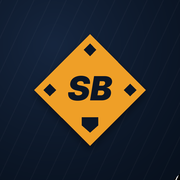
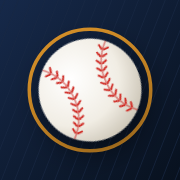
Логотип и иконки: бейсбольный мяч вместо ромба; мяч крутится при наведении
- icons/: новые иконка приложения, maskable, apple-touch-icon, favicon (?v=2 для сброса кэша)
- шапка, footer, приветствие и карточка игрока (canvas) — мяч
- анимация отключается при «уменьшить движение»

Claude-Session: https://claude.ai/code/session_013S2NdYeSo4xxmBAmjf2uvL

diff --git a/index.html b/index.html
@@ -7,22 +7,22 @@
 <meta name="description" content="Softball Baku — oyunçuların reytinqi və statistikası">
 <link rel="manifest" href="manifest.json">
 <meta name="theme-color" content="#08111e">
-<link rel="icon" type="image/png" sizes="32x32" href="icons/favicon-32.png">
-<link rel="apple-touch-icon" href="icons/apple-touch-icon.png">
+<link rel="icon" type="image/png" sizes="32x32" href="icons/favicon-32.png?v=2">
+<link rel="apple-touch-icon" href="icons/apple-touch-icon.png?v=2">
 <meta name="mobile-web-app-capable" content="yes">
 <meta name="apple-mobile-web-app-capable" content="yes">
 <meta name="apple-mobile-web-app-status-bar-style" content="black">
 <meta name="apple-mobile-web-app-title" content="Softball Baku">
 <link rel="preconnect" href="https://fonts.googleapis.com">
 <link rel="stylesheet" href="https://fonts.googleapis.com/css2?family=Inter:ital,opsz,wght@0,14..32,400..900;1,14..32,700..900&display=swap">
-<link rel="stylesheet" href="styles.css?v=202611071255">
-<link rel="stylesheet" href="features.css?v=202611071255">
-<link rel="stylesheet" href="club.css?v=202611071255">
-<link rel="stylesheet" href="weather.css?v=202611071255">
+<link rel="stylesheet" href="styles.css?v=202611071500">
+<link rel="stylesheet" href="features.css?v=202611071500">
+<link rel="stylesheet" href="club.css?v=202611071500">
+<link rel="stylesheet" href="weather.css?v=202611071500">
 </head>
 <body>
 <header class="top">
-  <a class="brand" href="#rating"><span class="brand-mark">◆</span><span class="brand-text">SOFTBALL <b>BAKU</b></span></a>
+  <a class="brand" href="#rating"><span class="brand-mark"><svg class="ball" viewBox="0 0 100 100" aria-hidden="true"><defs><radialGradient id="bh" cx="38%" cy="32%" r="75%"><stop offset="0" stop-color="#fff"/><stop offset=".62" stop-color="#f1ede4"/><stop offset="1" stop-color="#c9c2b3"/></radialGradient></defs><circle cx="50" cy="50" r="46" fill="url(#bh)"/><g fill="none" stroke-linecap="round"><path d="M19 16C39 34 39 66 19 84 M81 16C61 34 61 66 81 84" stroke="#c9302c" stroke-width="2.4" opacity=".55"/><path d="M19.3 22.2L23.3 22.3M25.8 16.9L25.1 20.8M22.9 26.9L26.8 27.5M30.1 22.5L28.9 26.3M25.8 31.9L29.5 33.1M33.5 28.6L31.7 32.1M27.9 37.2L31.4 38.9M36.0 35.0L33.8 38.3M29.2 42.7L32.5 44.9M37.5 41.6L34.9 44.6M29.8 48.4L32.8 51.0M38.2 48.4L35.2 51.0M29.6 54.1L32.3 57.1M38.0 55.2L34.6 57.4M28.7 59.7L30.9 63.0M36.8 61.9L33.2 63.7M27.0 65.2L28.8 68.8M34.7 68.5L31.0 69.7M24.6 70.4L25.8 74.2M31.8 74.8L27.8 75.4M21.4 75.3L22.0 79.2M27.8 80.7L23.9 80.8M74.2 16.9L74.9 20.8M80.7 22.2L76.7 22.3M69.9 22.5L71.1 26.3M77.1 26.9L73.2 27.5M66.5 28.6L68.3 32.1M74.2 31.9L70.5 33.1M64.0 35.0L66.2 38.3M72.1 37.2L68.6 38.9M62.5 41.6L65.1 44.6M70.8 42.7L67.5 44.9M61.8 48.4L64.8 51.0M70.2 48.4L67.2 51.0M62.0 55.2L65.4 57.4M70.4 54.1L67.7 57.1M63.2 61.9L66.8 63.7M71.3 59.7L69.1 63.0M65.3 68.5L69.0 69.7M73.0 65.2L71.2 68.8M68.2 74.8L72.2 75.4M75.4 70.4L74.2 74.2M72.2 80.7L76.1 80.8M78.6 75.3L78.0 79.2" stroke="#d2312b" stroke-width="3.6"/></g></svg></span><span class="brand-text">SOFTBALL <b>BAKU</b></span></a>
   <div class="right">
     <nav><a href="#rating" data-nav="home" data-t="rating">Reytinq</a><a href="#games" data-nav="games" data-t="games">Oyunlar</a><a href="#teams" data-nav="teams" data-t="navTeams">Komandalar</a><a href="#records" data-nav="records" data-t="navRecords">Rekordlar</a><a href="#rules" data-nav="rules" data-t="navRules">Qaydalar</a></nav>
     <div class="lang" role="group" aria-label="Language"><button data-lang="az">AZ</button><button data-lang="ru">RU</button><button data-lang="en">EN</button></div>
@@ -33,11 +33,11 @@
 <div id="demo-banner" class="demo" hidden>Демо-версия: игроки и цифры вымышленные</div>
 <main id="app"><div class="loading">…</div></main>
 <footer class="foot" id="foot">Softball Baku</footer>
-<script src="install.js?v=202611071255"></script>
-<script src="app.js?v=202611071255"></script>
-<script src="features.js?v=202611071255"></script>
-<script src="rules.js?v=202611071255"></script>
-<script src="club.js?v=202611071255"></script>
-<script src="weather.js?v=202611071255"></script>
+<script src="install.js?v=202611071500"></script>
+<script src="app.js?v=202611071500"></script>
+<script src="features.js?v=202611071500"></script>
+<script src="rules.js?v=202611071500"></script>
+<script src="club.js?v=202611071500"></script>
+<script src="weather.js?v=202611071500"></script>
 </body>
 </html>

diff --git a/app.js b/app.js
@@ -41,6 +41,11 @@ let LANG='az';
 try{ const s=localStorage.getItem('lang'); if(I18N[s]) LANG=s; }catch(e){}
 const T=k=>I18N[LANG][k];
 
+/* ---------- Логотип: бейсбольный мяч (крутится при наведении) ---------- */
+const BALL_SEAM='M19 16C39 34 39 66 19 84 M81 16C61 34 61 66 81 84', BALL_ST='M19.3 22.2L23.3 22.3M25.8 16.9L25.1 20.8M22.9 26.9L26.8 27.5M30.1 22.5L28.9 26.3M25.8 31.9L29.5 33.1M33.5 28.6L31.7 32.1M27.9 37.2L31.4 38.9M36.0 35.0L33.8 38.3M29.2 42.7L32.5 44.9M37.5 41.6L34.9 44.6M29.8 48.4L32.8 51.0M38.2 48.4L35.2 51.0M29.6 54.1L32.3 57.1M38.0 55.2L34.6 57.4M28.7 59.7L30.9 63.0M36.8 61.9L33.2 63.7M27.0 65.2L28.8 68.8M34.7 68.5L31.0 69.7M24.6 70.4L25.8 74.2M31.8 74.8L27.8 75.4M21.4 75.3L22.0 79.2M27.8 80.7L23.9 80.8M74.2 16.9L74.9 20.8M80.7 22.2L76.7 22.3M69.9 22.5L71.1 26.3M77.1 26.9L73.2 27.5M66.5 28.6L68.3 32.1M74.2 31.9L70.5 33.1M64.0 35.0L66.2 38.3M72.1 37.2L68.6 38.9M62.5 41.6L65.1 44.6M70.8 42.7L67.5 44.9M61.8 48.4L64.8 51.0M70.2 48.4L67.2 51.0M62.0 55.2L65.4 57.4M70.4 54.1L67.7 57.1M63.2 61.9L66.8 63.7M71.3 59.7L69.1 63.0M65.3 68.5L69.0 69.7M73.0 65.2L71.2 68.8M68.2 74.8L72.2 75.4M75.4 70.4L74.2 74.2M72.2 80.7L76.1 80.8M78.6 75.3L78.0 79.2';
+let _ballN=0;
+function ballSVG(){ const i='b'+(++_ballN);
+  return `<svg class="ball" viewBox="0 0 100 100" aria-hidden="true"><defs><radialGradient id="${i}" cx="38%" cy="32%" r="75%"><stop offset="0" stop-color="#fff"/><stop offset=".62" stop-color="#f1ede4"/><stop offset="1" stop-color="#c9c2b3"/></radialGradient></defs><circle cx="50" cy="50" r="46" fill="url(#${i})"/><g fill="none" stroke-linecap="round"><path d="${BALL_SEAM}" stroke="#c9302c" stroke-width="2.4" opacity=".55"/><path d="${BALL_ST}" stroke="#d2312b" stroke-width="3.6"/></g></svg>`; }
 /* ---------- Performance score (0–10) ---------- */
 // Формула v3 (07.11.2026). Абсолютная шкала: BASE + бита + защита + бонус за победу, предел 3–10.
 // Ноябрь–декабрь 2026: тестовые игры, калибруем BASE и веса (цель: средний игрок ≈ 6.5).
@@ -300,7 +305,7 @@ function footer(){
   return `<div class="foot-stripe"><i style="background:var(--bina)"></i><i style="background:var(--amber)"></i><i style="background:var(--flames)"></i></div>
   <div class="foot-inner">
     <div class="foot-brand">
-      <a class="brand" href="#rating"><span class="brand-mark">◆</span><span class="brand-text">SOFTBALL <b>BAKU</b></span></a>
+      <a class="brand" href="#rating"><span class="brand-mark">${ballSVG()}</span><span class="brand-text">SOFTBALL <b>BAKU</b></span></a>
       <p>${T('tagline')}</p>
       ${socials?`<div class="socials">${socials}</div>`:''}
       ${window.installBtnHTML?installBtnHTML():''}

diff --git a/features.js b/features.js
@@ -335,7 +335,7 @@ async function drawCard(p){
   // номер-водяной знак
   x.font=F(900,560,1); x.fillStyle='rgba(239,159,39,.08)'; x.textAlign='right'; x.fillText(String(p.number),W+20,560);
   // бренд
-  x.textAlign='left'; x.fillStyle='#EF9F27'; x.font=F(900,44); x.fillText('◆',70,110); x.fillStyle='#eef2f8'; x.font=F(800,40); x.fillText('SOFTBALL',130,108); x.fillStyle='#EF9F27'; x.fillText('BAKU',x.measureText('SOFTBALL ').width+130,108);
+  x.textAlign='left'; drawBall(x,92,95,24); x.fillStyle='#eef2f8'; x.font=F(800,40); x.fillText('SOFTBALL',130,108); x.fillStyle='#EF9F27'; x.fillText('BAKU',x.measureText('SOFTBALL ').width+130,108);
   // фото
   const cx=W/2, cy=470, r=230, img=await loadImg(p.photo);
   x.save(); x.beginPath(); x.arc(cx,cy,r,0,Math.PI*2); x.closePath(); x.fillStyle='#14233a'; x.fill(); x.clip();
@@ -401,3 +401,12 @@ window.makeDemoGames=function(players){
 
 /* ---------- страницы правил подключаются из rules.js ---------- */
 window.FEATURE_ROUTES={teams:teamsPage,records:recordsPage,rules:id=>window.rulesPage?rulesPage(id):home()};
+
+/* мяч-логотип для картинок (canvas) */
+function drawBall(x,cx,cy,r){
+  x.save(); x.translate(cx,cy); x.rotate(-25*Math.PI/180); const k=r/46; x.scale(k,k); x.translate(-50,-50);
+  const g=x.createRadialGradient(38,32,0,38,32,75); g.addColorStop(0,'#fff'); g.addColorStop(.62,'#f1ede4'); g.addColorStop(1,'#c9c2b3');
+  x.beginPath(); x.arc(50,50,46,0,Math.PI*2); x.fillStyle=g; x.fill(); x.clip();
+  x.lineCap='round'; x.globalAlpha=.55; x.strokeStyle='#c9302c'; x.lineWidth=2.4; x.stroke(new Path2D(BALL_SEAM));
+  x.globalAlpha=1; x.strokeStyle='#d2312b'; x.lineWidth=3.6; x.stroke(new Path2D(BALL_ST)); x.restore();
+}

diff --git a/styles.css b/styles.css
@@ -9,7 +9,11 @@ html,body{margin:0;background:var(--bg);color:var(--text);font-family:"Inter Dis
 a{color:inherit;text-decoration:none}
 .top{position:sticky;top:0;z-index:10;display:flex;align-items:center;justify-content:space-between;padding:14px clamp(16px,4vw,48px);background:rgba(8,17,30,.92);backdrop-filter:blur(8px);border-bottom:1px solid var(--line)}
 .brand{display:flex;align-items:center;gap:10px;font-weight:800;letter-spacing:2px;font-size:15px}
-.brand-mark{color:var(--amber);font-size:20px}
+.brand-mark{color:var(--amber);font-size:20px;display:inline-flex}
+.brand-mark .ball{width:24px;height:24px;display:block;transform:rotate(-25deg);filter:drop-shadow(0 2px 4px rgba(0,0,0,.45))}
+@keyframes ballSpin{from{transform:rotate(-25deg)}to{transform:rotate(335deg)}}
+.brand:hover .ball,.brand:active .ball,.cl-logo:hover .ball{animation:ballSpin .9s linear infinite}
+@media (prefers-reduced-motion:reduce){.brand:hover .ball,.brand:active .ball,.cl-logo:hover .ball{animation:none}}
 .brand b{color:var(--amber);font-weight:900}
 nav{display:flex;gap:6px}
 nav a{padding:8px 14px;border-radius:8px;color:var(--muted);font-weight:600;font-size:14px}

diff --git a/club.js b/club.js
@@ -274,7 +274,7 @@ function auth(mode){
   const guest=`<button class="cl-guest" onclick="CL.close()">${T('cGuest')} →</button>`;
   let h;
   if(mode==='welcome'){
-    h=`<div class="cl-hello"><div class="cl-logo"><span class="brand-mark">◆</span><span class="brand-text">SOFTBALL <b>BAKU</b></span></div>
+    h=`<div class="cl-hello"><div class="cl-logo"><span class="brand-mark">${ballSVG()}</span><span class="brand-text">SOFTBALL <b>BAKU</b></span></div>
       <h2>${T('cWelcome')}</h2><p>${T('cWelcomeTxt')}</p></div>
       <div class="cl-btns"><button class="btn pri" onclick="CL.auth('login')">${T('cLogin')}</button><button class="btn" onclick="CL.auth('signup')">${T('cSignup')}</button></div>${guest}`;
   } else if(mode==='forgot'){

diff --git a/club.css b/club.css
@@ -248,6 +248,7 @@ table.lb.lv-bx{min-width:0}
   .top{gap:8px}
   .top .brand{font-size:13px;letter-spacing:1.5px;gap:7px}
   .top .brand-mark{font-size:17px}
+  .top .brand-mark .ball{width:21px;height:21px}
   .top .lang button{padding:6px 7px}
   .acct-in{padding:7px 10px;font-size:13px}
 }
